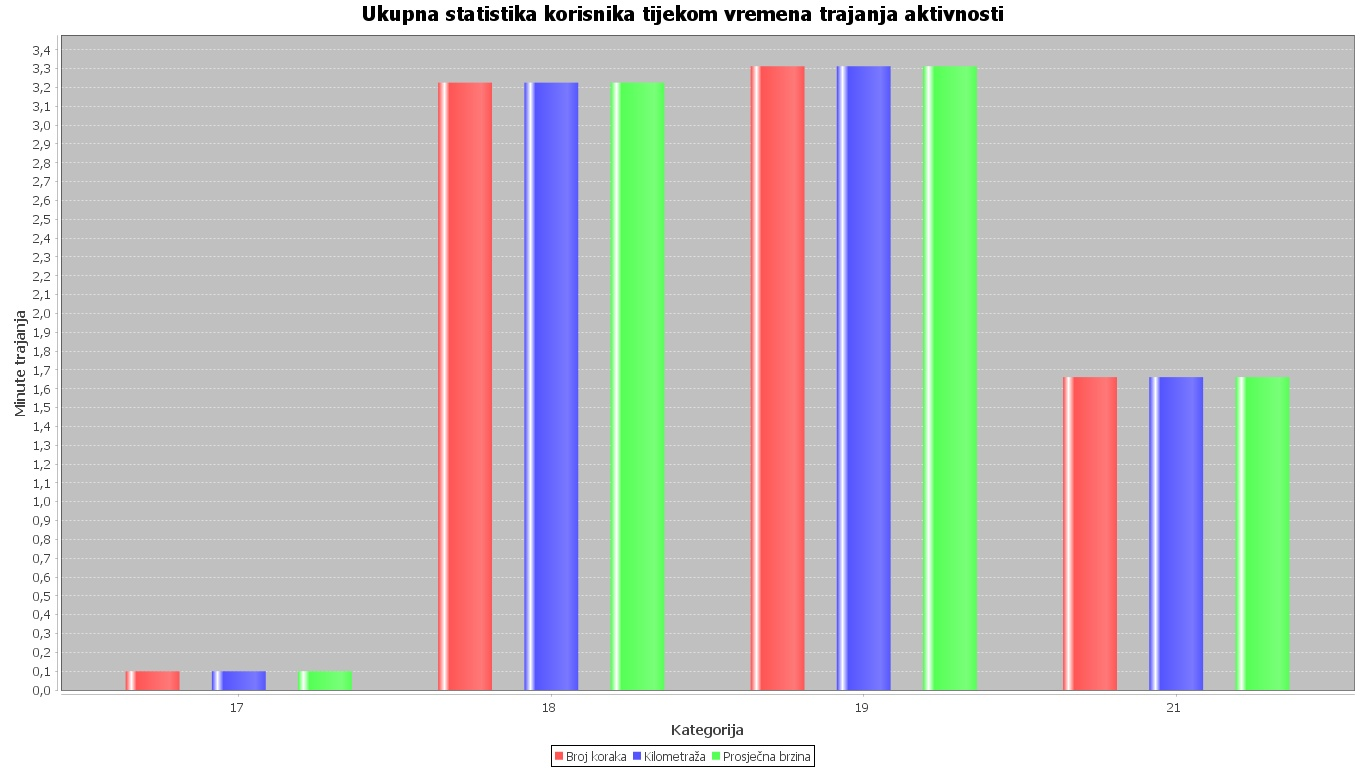
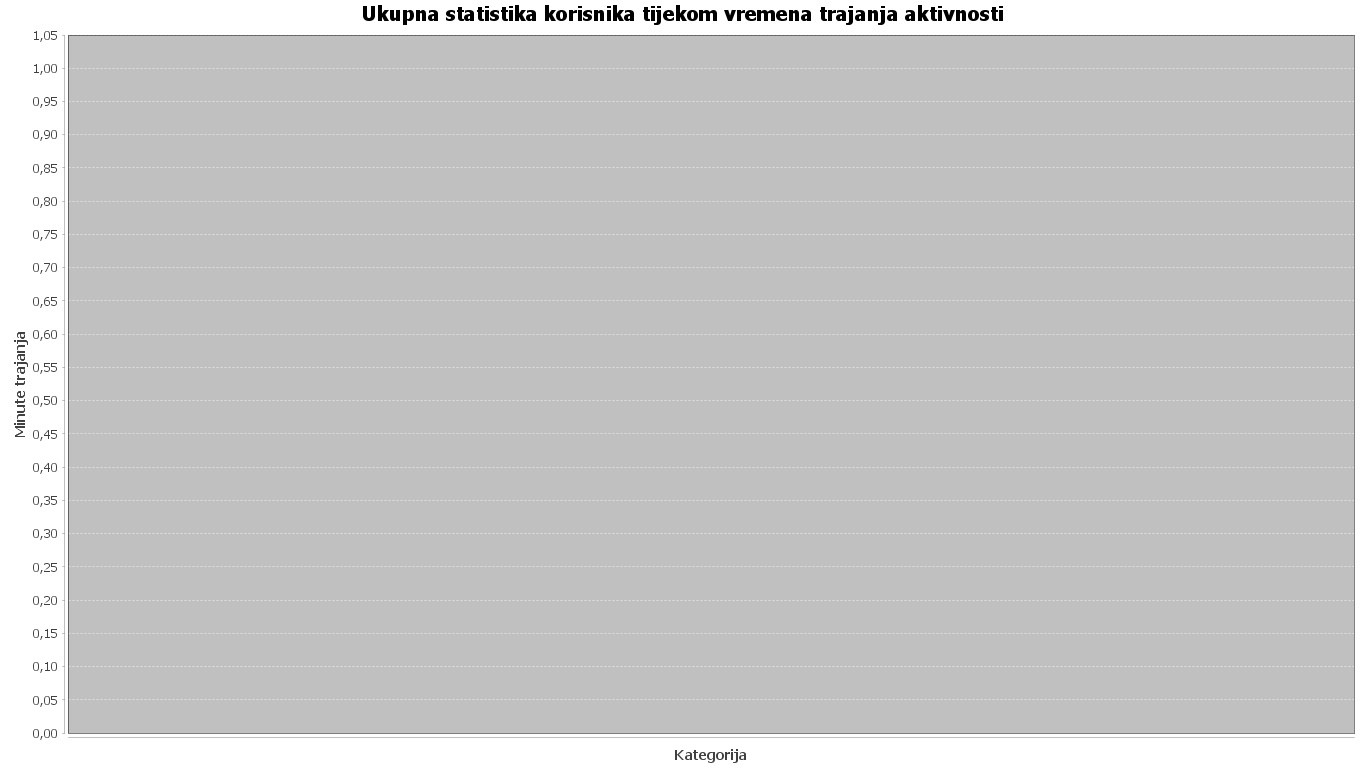
dodano filtriranje za ukupne rezultate

diff --git a/PhysicalActivityMVC/src/main/java/com/josip/physical/activity/summary/LineChart.java b/PhysicalActivityMVC/src/main/java/com/josip/physical/activity/summary/LineChart.java
@@ -26,7 +26,7 @@ public class LineChart {
 		
 		
 	}
-    public File generate(int indeks) throws IOException {
+    public File generate() throws IOException {
     	//stvori listu
     	List<SummaryActivity> dataset= new ArrayList<SummaryActivity>();
     	//upit za korisnika
@@ -39,7 +39,7 @@ public class LineChart {
     	//stvori kategorije dataseta
     	DefaultCategoryDataset line_chart_dataset = new DefaultCategoryDataset();
     	DefaultCategoryDataset lnd=new DefaultCategoryDataset();
-    	indeks+=indeks;
+    
     	//crtaj graf
     	int broj=0;
     	for (SummaryActivity summaryActivity : dataset) {
@@ -53,7 +53,7 @@ public class LineChart {
     		lnd.addValue(summaryActivity.getPrijedjeniKilometri(), "Broj prijedjenih kilometara", datum2);
     	
 		}
-        indeks+=broj;
+       
         broj=0;
     	JFreeChart lineChartObject = ChartFactory.createLineChart(
     	"Ukupna aktivnost","Dan",
@@ -73,4 +73,51 @@ public class LineChart {
     		return lineChart;
     
 }
+    public File generirajFiltriranp(String datum1,String datum2) throws IOException {
+    	//stvori listu
+    	List<SummaryActivity> dataset= new ArrayList<SummaryActivity>();
+    	//upit za korisnika
+    	Authentication au=SecurityContextHolder.getContext().getAuthentication();
+		String name=au.getName();
+		//dohvati listu  korisnika
+    	dataset=sumImpl.filtriraj(name, datum1, datum2);
+    	//izracunaj velicinu liste
+    	int length=dataset.size();
+    	//stvori kategorije dataseta
+    	DefaultCategoryDataset line_chart_dataset = new DefaultCategoryDataset();
+    	DefaultCategoryDataset lnd=new DefaultCategoryDataset();
+    
+    	//crtaj graf
+    	int broj=0;
+    	for (SummaryActivity summaryActivity : dataset) {
+    	
+    		String datum12=summaryActivity.getDatum().trim();
+    		String datum23=datum1.substring(8,11);
+    		double sekunde=summaryActivity.getUkupnoVrijeme()/1000;
+    		double minute=sekunde/60;
+    		
+    		line_chart_dataset.addValue( minute , "vrijeme" , datum23);
+    		lnd.addValue(summaryActivity.getPrijedjeniKilometri(), "Broj prijedjenih kilometara", datum23);
+    	
+		}
+       
+        broj=0;
+    	JFreeChart lineChartObject = ChartFactory.createLineChart(
+    	"Ukupna aktivnost","Dan",
+    	"Vrijeme u minutama",
+    	line_chart_dataset,PlotOrientation.VERTICAL,
+    	true,true,true);
+    	int width = 1366; /* Width of the image */
+    	int height = 768; /* Height of the image */
+    	File lineChart = new File( "C:/xampp/htdocs/SustavZaPracenjeFizickeAktivnosti/PhysicalActivityMVC/src/main/webapp/resources/LineChart.jpeg" );
+    	ChartUtilities.saveChartAsJPEG(lineChart ,lineChartObject, width, height);
+    	
+    	JFreeChart lnch=ChartFactory.createLineChart("Udaljenost u kilometrima","Dan","Ukupna prijeđena udaljensot",lnd,PlotOrientation.VERTICAL,true,true,true);
+    	width = 1366; /* Width of the image */
+    	height = 768; /* Height of the image */
+    	lineChart = new File( "C:/xampp/htdocs/SustavZaPracenjeFizickeAktivnosti/PhysicalActivityMVC/src/main/webapp/resources/LineChart2.jpeg" );
+    	ChartUtilities.saveChartAsJPEG(lineChart ,lnch, width, height);
+    		return lineChart;
+    
+}    
 }

diff --git a/PhysicalActivityMVC/src/main/java/com/josip/physical/activity/summary/Histogram.java b/PhysicalActivityMVC/src/main/java/com/josip/physical/activity/summary/Histogram.java
@@ -58,5 +58,32 @@ public class Histogram {
 		ChartUtilities.saveChartAsJPEG(histogram, barChart, width, height);
 		return histogram;
 	}
+	
+	public File generirajHistogram(String datum1,String datum2) throws IOException {
+		List<SummaryActivity> act=new ArrayList<SummaryActivity>();
+		Authentication au=SecurityContextHolder.getContext().getAuthentication();
+		String name=au.getName();
+		act=sumImpl.filtriraj(name, datum1, datum2);
+		final DefaultCategoryDataset dataset = new DefaultCategoryDataset();
+		for (SummaryActivity summaryActivity : act) {
+			String datum12=summaryActivity.getDatum().trim();
+    		String datum23=datum1.substring(8,11);
+    		double sekunde=summaryActivity.getUkupnoVrijeme()/1000;
+    		double minute=sekunde/60;
+			dataset.addValue(minute,ukupanBrojKoraka,datum23);
+			dataset.addValue(minute, prijedjeniKilometri, datum23);
+			dataset.addValue(minute, prosjecnaBrzina, datum23);
+			
+		}
+		JFreeChart barChart= ChartFactory.createBarChart("Ukupna statistika korisnika tijekom vremena trajanja aktivnosti",
+				"Kategorija", "Minute trajanja", dataset,PlotOrientation.VERTICAL,true,true,true);
+		
+		int width=1366;
+		int height=768;
+		File histogram=new File("C:/xampp/htdocs/SustavZaPracenjeFizickeAktivnosti/PhysicalActivityMVC/src/main/webapp/resources/Histogram.jpeg");
+		ChartUtilities.saveChartAsJPEG(histogram, barChart, width, height);
+		return histogram;
+	}
+
 
 }

diff --git a/PhysicalActivityMVC/src/main/java/com/josip/physical/activity/summary/SummaryImplementation.java b/PhysicalActivityMVC/src/main/java/com/josip/physical/activity/summary/SummaryImplementation.java
@@ -203,6 +203,39 @@ SpringDataSource dat;
 			
 			return list;
 	}
+	@Override
+	public List<SummaryActivity> filtriraj(String name,String datum1, String datum2) {
+		List<SummaryActivity> list=new ArrayList<SummaryActivity>();
+		dat=new SpringDataSource();
+			
+			if(null != dat.getObj()) {
+				String select="SELECT korisnikSum,ukupanBrojKoraka,ukupnoVrijemeAktivnosti,ukupnaPrijedjenaUdaljenost,prosjecnaBrzina,datum FROM `summarystatistika` WHERE (korisnikSum='"+name+"') AND (datum>='"+datum1+"' AND datum <'"+datum2+"')";
+				List<SummaryActivity> sum=dat.getObj().query(select,new RowMapper() {
+					public SummaryActivity mapRow(final ResultSet result,final int rowNum) throws SQLException{
+						SummaryActivity suma=new SummaryActivity();
+						suma.setKorisnik(result.getString("korisnikSum"));
+						suma.setUkupanBrojKoraka(result.getInt("ukupanBrojKoraka"));
+						suma.setUkupnoVrijeme(result.getDouble("ukupnoVrijemeAktivnosti"));
+						suma.setPrijedjeniKilometri(result.getDouble("ukupnaPrijedjenaUdaljenost"));
+						suma.setProsjecnaBrzina(result.getDouble("prosjecnaBrzina"));
+						suma.setDatum(result.getString("datum"));
+						
+						return suma;
+						
+					}});
+					
+				for (SummaryActivity summaryActivity : sum) {
+					list.add(summaryActivity);
+				}
+					
+				}
+				
+			
+			
+			
+			
+			return list;
+	}
 	
 
 }

diff --git a/PhysicalActivityMVC/src/main/java/com/josip/physical/activity/summary/SummaryController.java b/PhysicalActivityMVC/src/main/java/com/josip/physical/activity/summary/SummaryController.java
@@ -16,6 +16,7 @@ import org.springframework.stereotype.Controller;
 import org.springframework.ui.Model;
 import org.springframework.web.bind.annotation.RequestMapping;
 import org.springframework.web.bind.annotation.RequestMethod;
+import org.springframework.web.bind.annotation.RequestParam;
 
 @Controller
 @RequestMapping(value= {"/","/physical","/sum"})
@@ -39,8 +40,18 @@ public String sum(Model model) throws IOException {
 	model.addAttribute("ukupnoBicikliranja",summaryRepository.izlistaj(name));
 	model.addAttribute("ukupnoTrcanje",summaryRepository.lista(name));
 	model.addAttribute("ukupnoHodanja",summaryRepository.izlistajHod(name));
-    model.addAttribute(lineChart.generate(0));
+    model.addAttribute(lineChart.generate());
     model.addAttribute(histogram.generirajHistogram());
+	
+	return "sum";
+}
+@RequestMapping(value= {"/sum"},method=RequestMethod.POST)
+public String filter(@RequestParam("datum1")String Datum1,@RequestParam("datum2")String Datum2,Model model) throws IOException {
+	Authentication au=SecurityContextHolder.getContext().getAuthentication();
+	   String name=au.getName();
+	model.addAttribute("sum",summaryRepository.filtriraj(name, Datum1, Datum2));
+    model.addAttribute(lineChart.generirajFiltriranp(Datum1, Datum2));
+    model.addAttribute(histogram.generirajHistogram(Datum1,Datum2));
 	
 	return "sum";
 }

diff --git a/PhysicalActivityMVC/src/main/java/com/josip/physical/activity/summary/SummaryRepository.java b/PhysicalActivityMVC/src/main/java/com/josip/physical/activity/summary/SummaryRepository.java
@@ -6,6 +6,7 @@ import java.util.List;
 public interface SummaryRepository {
 public List<SummaryActivity> show(String name);
 public SummaryActivity dodajUkupno(SummaryActivity summary);
+public List<SummaryActivity> filtriraj(String name,String datum1,String datum2);
 public SummaryBiking dodaj(SummaryBiking bike);
 public List<SummaryBiking> izlistaj(String username);
 public SummaryRunning dodaj(SummaryRunning run);
